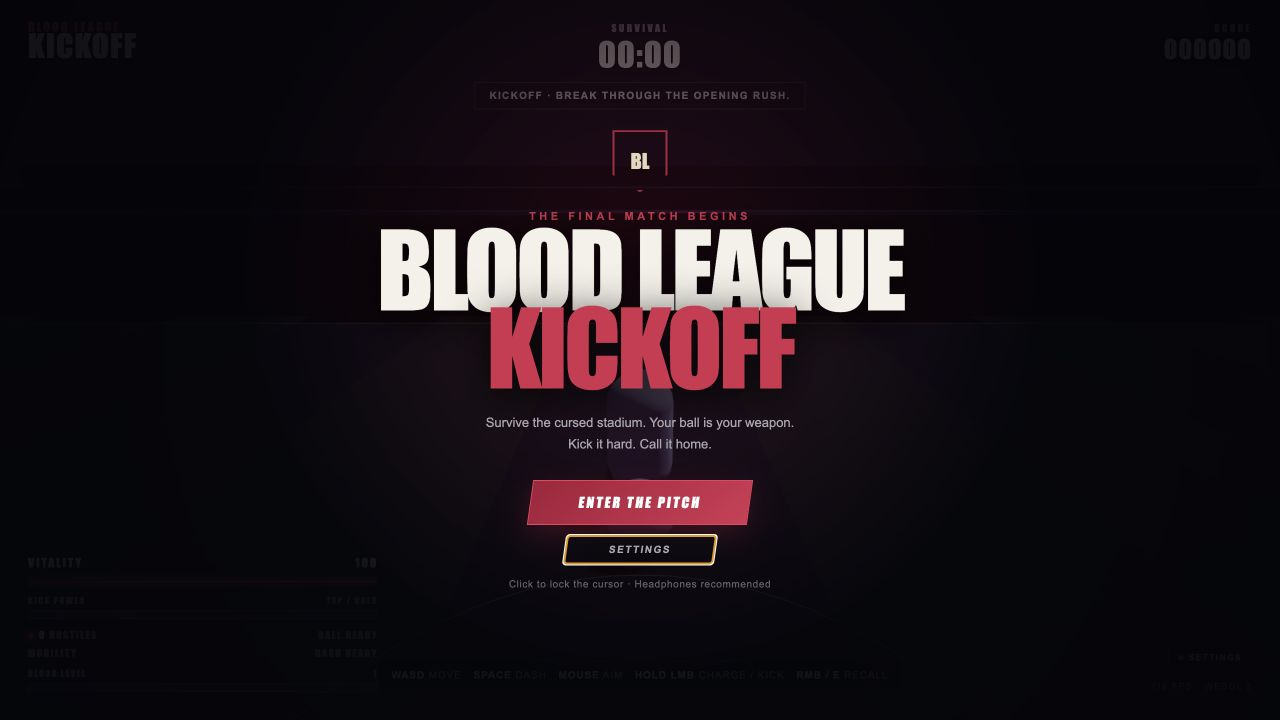
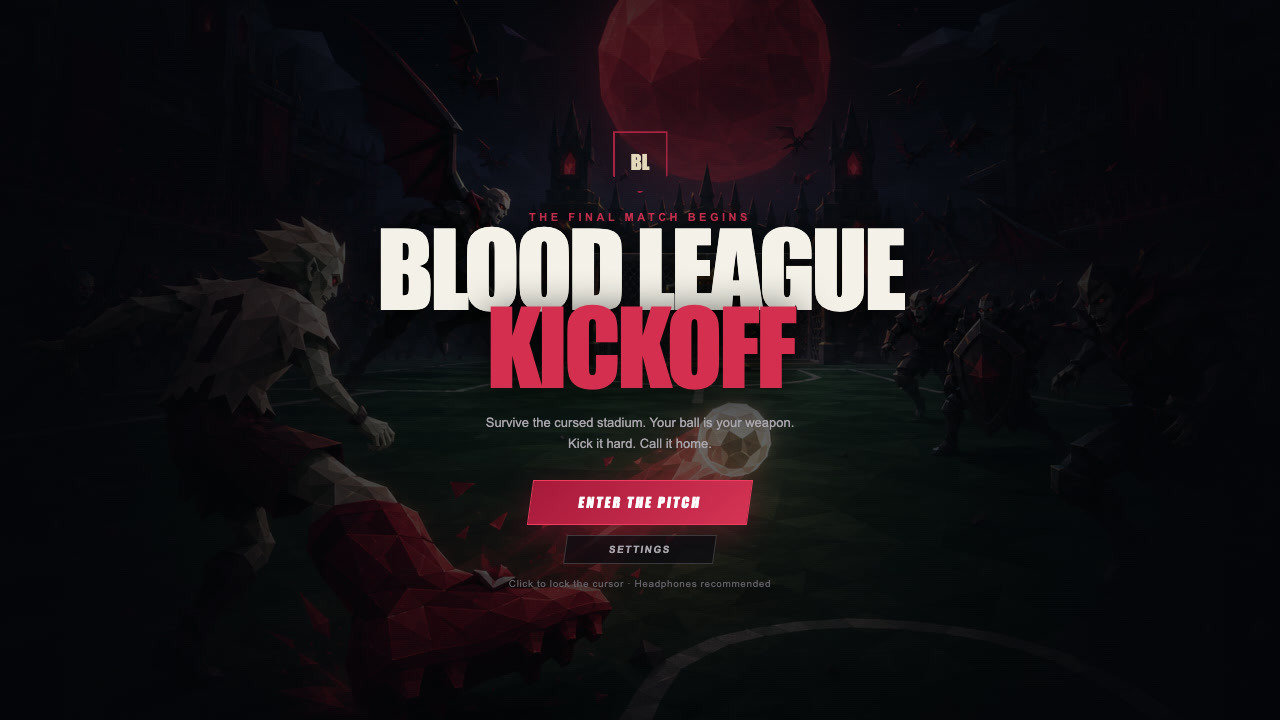
feat: integrate original key art and title presentation

diff --git a/src/styles.css b/src/styles.css
@@ -408,6 +408,22 @@ button {
   visibility: hidden;
   pointer-events: none;
 }
+.modal.splash {
+  background:
+    linear-gradient(
+      90deg,
+      rgba(4, 4, 9, 0.56),
+      rgba(4, 4, 9, 0.2) 32%,
+      rgba(4, 4, 9, 0.2) 68%,
+      rgba(4, 4, 9, 0.56)
+    ),
+    radial-gradient(circle at 50% 45%, rgba(5, 5, 10, 0.38), rgba(5, 5, 10, 0.9) 78%),
+    url('./assets/key-art/menu-background.jpg') center / cover no-repeat;
+}
+.modal.splash > * {
+  position: relative;
+  z-index: 1;
+}
 .crest {
   width: 55px;
   height: 62px;
@@ -518,6 +534,9 @@ button {
   }
   .perf {
     display: none;
+  }
+  .modal.splash {
+    background-position: 46% center;
   }
 }
 

diff --git a/docs/ASSET_INVENTORY.md b/docs/ASSET_INVENTORY.md
@@ -6,8 +6,8 @@ Inventory status as of 2026-07-14:
 
 - All current gameplay visuals are generated at runtime from authored TypeScript, Three.js primitives, materials, lights, and particles.
 - All current music and sound effects are synthesized at runtime with the Web Audio API.
-- The repository contains three authored JPEG screenshots.
-- No generated raster image, imported 3D model, texture, audio recording, bundled font, or third-party player-facing asset is currently present.
+- The repository contains three authored JPEG screenshots, one generated key-art master, and two optimized key-art derivatives.
+- No imported 3D model, recorded audio, bundled font, or third-party player-facing asset is currently present.
 
 ## Field Definitions
 
@@ -36,11 +36,11 @@ These assets do not exist as standalone image or model files. Their geometry and
 
 ## Authored Interface Assets
 
-| Category                                                                      | Source                                | Tool                                   | License/ownership                         | Changes/current state                                                                                                                        |
-| ----------------------------------------------------------------------------- | ------------------------------------- | -------------------------------------- | ----------------------------------------- | -------------------------------------------------------------------------------------------------------------------------------------------- |
-| HUD, title screen, pause, halftime, upgrades, tutorial, settings, and results | `src/ui/`, `src/styles.css`           | TypeScript, HTML DOM, CSS              | Project-created code                      | Layout, typography, gradients, borders, icons/glyphs, animation, and reduced-motion behavior are authored directly; no raster UI kit is used |
-| BL favicon                                                                    | Inline SVG data URL in `index.html`   | Authored SVG path and CSS color values | Project-created code                      | Embedded at build time; not stored as a separate image file                                                                                  |
-| Typography                                                                    | CSS system stacks in `src/styles.css` | Host operating-system fonts            | No font file redistributed by the project | Uses fallbacks including Impact/Haettenschweiler/Arial; appearance can vary by platform and must be checked on the target macOS build        |
+| Category                                                                      | Source                                | Tool                                   | License/ownership                         | Changes/current state                                                                                                                                                                |
+| ----------------------------------------------------------------------------- | ------------------------------------- | -------------------------------------- | ----------------------------------------- | ------------------------------------------------------------------------------------------------------------------------------------------------------------------------------------ |
+| HUD, title screen, pause, halftime, upgrades, tutorial, settings, and results | `src/ui/`, `src/styles.css`           | TypeScript, HTML DOM, CSS              | Project-created code                      | Layout, typography, gradients, borders, icons/glyphs, animation, and reduced-motion behavior are authored directly; the title screen composites the generated key art recorded below |
+| BL favicon                                                                    | Inline SVG data URL in `index.html`   | Authored SVG path and CSS color values | Project-created code                      | Embedded at build time; not stored as a separate image file                                                                                                                          |
+| Typography                                                                    | CSS system stacks in `src/styles.css` | Host operating-system fonts            | No font file redistributed by the project | Uses fallbacks including Impact/Haettenschweiler/Arial; appearance can vary by platform and must be checked on the target macOS build                                                |
 
 ## Procedural Audio Assets
 
@@ -57,27 +57,27 @@ The generated noise buffer is computed during runtime and is not an authored or 
 
 ## Repository Screenshots
 
-All current screenshots are direct captures of the running game and therefore depict the procedural visuals and authored interface listed above. No AI image generator or third-party image source was used for these repository files.
+All current screenshots are direct captures of the running game and therefore depict the runtime visuals and authored interface listed above. The refreshed title capture includes the generated key-art background recorded in the asset register; the gameplay and settings captures contain no generated or third-party raster imagery.
 
-| Path                                | Source                           | Tool                                  | License/ownership       | Changes/current state                                                                                                                      |
-| ----------------------------------- | -------------------------------- | ------------------------------------- | ----------------------- | ------------------------------------------------------------------------------------------------------------------------------------------ |
[3 lines of base64/hex data omitted]
+| Path                                | Source                           | Tool                                                      | License/ownership                                                        | Changes/current state                                                                                                                      |
+| ----------------------------------- | -------------------------------- | --------------------------------------------------------- | ------------------------------------------------------------------------ | ------------------------------------------------------------------------------------------------------------------------------------------ |
[3 lines of base64/hex data omitted]
 
 The capture method is recorded at the level verified by the repository history. If a release capture is cropped, color-corrected, composited, or exported through another tool, record that change and tool here before submission.
 
 ## Generated Raster and Imported Asset Register
 
-| Asset class                                           | Current files | Source/tool/license/change record                                                                                                                                                          |
-| ----------------------------------------------------- | ------------- | ------------------------------------------------------------------------------------------------------------------------------------------------------------------------------------------ |
-| AI-generated raster images                            | _None_        | Do not list a planned image as created. When one is added, record its repository path, generator/model, prompt or brief location, generation date, human edits, and redistribution status. |
-| Hand-authored raster images other than screenshots    | _None_        | Record source artwork and export transformations when added.                                                                                                                               |
-| External textures or sprites                          | _None_        | Record original author, direct source URL, exact license, attribution, and all modifications when added.                                                                                   |
-| Imported 3D models (`.glb`, `.gltf`, or source scene) | _None_        | Record modeling source, author/tool, license, cleanup, scale, collision, and export settings when added.                                                                                   |
-| Recorded or generated audio files                     | _None_        | Procedural Web Audio code is listed above; any future rendered file needs generator/recording source and editing history.                                                                  |
-| Bundled font files                                    | _None_        | Record foundry, source URL, license file, subset/conversion, and uses when added.                                                                                                          |
-| Third-party logos or character art                    | _None_        | Do not add without documented permission compatible with redistribution.                                                                                                                   |
+| Asset class                                           | Current files                                                                                                                | Source/tool/license/change record                                                                                                                                                  |
+| ----------------------------------------------------- | ---------------------------------------------------------------------------------------------------------------------------- | ---------------------------------------------------------------------------------------------------------------------------------------------------------------------------------- |
+| AI-generated raster images                            | `docs/art/source/blood-league-key-art-master.png`; `src/assets/key-art/menu-background.jpg`; `docs/marketing/itch-cover.jpg` | OpenAI built-in image generation, 2026-07-14; full prompt and derivation record in `docs/art/KEY_ART_PROMPT.md`; original plus FFmpeg JPEG runtime and centered cover derivatives. |
+| Hand-authored raster images other than screenshots    | _None_                                                                                                                       | Record source artwork and export transformations when added.                                                                                                                       |
+| External textures or sprites                          | _None_                                                                                                                       | Record original author, direct source URL, exact license, attribution, and all modifications when added.                                                                           |
+| Imported 3D models (`.glb`, `.gltf`, or source scene) | _None_                                                                                                                       | Record modeling source, author/tool, license, cleanup, scale, collision, and export settings when added.                                                                           |
+| Recorded or generated audio files                     | _None_                                                                                                                       | Procedural Web Audio code is listed above; any future rendered file needs generator/recording source and editing history.                                                          |
+| Bundled font files                                    | _None_                                                                                                                       | Record foundry, source URL, license file, subset/conversion, and uses when added.                                                                                                  |
+| Third-party logos or character art                    | _None_                                                                                                                       | Do not add without documented permission compatible with redistribution.                                                                                                           |
 
 ## Asset Freeze Checklist
 

diff --git a/docs/ASSET_CREDITS.md b/docs/ASSET_CREDITS.md
@@ -4,17 +4,19 @@ This is the authoritative asset and license ledger. The submission-facing file i
 
 ## Project-Created Assets
 
-| Asset/path                                | Creator              | Tool                                 | Date              | Notes                                                                               |
-| ----------------------------------------- | -------------------- | ------------------------------------ | ----------------- | ----------------------------------------------------------------------------------- |
-| Game design and source code               | Team (names pending) | Codex and local development tools    | 2026-07-14 onward | AI assistance must not be required at runtime                                       |
-| Procedural visuals, UI, and audio systems | Team (names pending) | TypeScript, Three.js, CSS, Web Audio | 2026-07-14 onward | Generated at runtime from project source; no external media files                   |
-| `docs/screenshots/*.jpg`                  | Team (names pending) | Local browser capture                | 2026-07-14        | Three 1280×720 captures of the running game; no third-party or AI-generated imagery |
+| Asset/path                                | Creator              | Tool                                 | Date              | Notes                                                                                                                    |
+| ----------------------------------------- | -------------------- | ------------------------------------ | ----------------- | ------------------------------------------------------------------------------------------------------------------------ |
+| Game design and source code               | Team (names pending) | Codex and local development tools    | 2026-07-14 onward | AI assistance must not be required at runtime                                                                            |
+| Procedural visuals, UI, and audio systems | Team (names pending) | TypeScript, Three.js, CSS, Web Audio | 2026-07-14 onward | Generated at runtime from project source; no external media files                                                        |
+| `docs/screenshots/*.jpg`                  | Team (names pending) | Local browser capture                | 2026-07-14        | Three 1280×720 captures of the running game; the refreshed title capture composites the generated key art recorded below |
 
 ## AI-Generated Assets
 
-| Asset/path       | Generator/model | Prompt/brief record | Date | Human modifications | Notes |
-| ---------------- | --------------- | ------------------- | ---- | ------------------- | ----- |
-| _None added yet_ |                 |                     |      |                     |       |
+| Asset/path                                        | Generator/model                  | Prompt/brief record          | Date       | Human modifications                                                   | Notes                                                                                    |
+| ------------------------------------------------- | -------------------------------- | ---------------------------- | ---------- | --------------------------------------------------------------------- | ---------------------------------------------------------------------------------------- |
+| `docs/art/source/blood-league-key-art-master.png` | OpenAI built-in image generation | `docs/art/KEY_ART_PROMPT.md` | 2026-07-14 | None; preserved source output                                         | Original project key art; generated without logos, typography, or third-party likenesses |
+| `src/assets/key-art/menu-background.jpg`          | Derived from the source above    | `docs/art/KEY_ART_PROMPT.md` | 2026-07-14 | JPEG export at 1536×1024 with FFmpeg; no crop or semantic edit        | Optimized runtime title background                                                       |
+| `docs/marketing/itch-cover.jpg`                   | Derived from the source above    | `docs/art/KEY_ART_PROMPT.md` | 2026-07-14 | Center crop to 1290×1024, resized to 630×500, JPEG export with FFmpeg | README and itch.io cover candidate                                                       |
 
 Store enough prompt/brief information to reproduce or explain each generated asset. Record edits such as paint-over, cropping, texture conversion, typography, and compositing. Never imply a generated image is a licensed third-party logo or character.
 

diff --git a/docs/art/KEY_ART_PROMPT.md b/docs/art/KEY_ART_PROMPT.md
@@ -1,0 +1,45 @@
+# Key Art Generation Record
+
+## Source
+
+- Date: 2026-07-14
+- Generator: OpenAI built-in image generation
+- Mode: built-in image generation; the exact hosted model identifier was not exposed by the tool
+- Source output: `docs/art/source/blood-league-key-art-master.png`
+- Source dimensions: 1536×1024
[1 lines of base64/hex data omitted]
+
+## Prompt
+
+> Use case: stylized-concept
+>
+> Asset type: landscape key art master for the Blood League: Kickoff game title screen, README hero, and itch.io cover crop
+>
+> Primary request: Create original cinematic key art for a low-poly gothic football survivor game under a blood moon. A pale undead striker with one unmistakably oversized crimson kicking boot has just kicked a bright faceted bone-white football through a rushing vampire horde toward an armored crowned goalkeeper at the far goal. The kick is the spark that starts the supernatural match.
+>
+> Scene/backdrop: cursed football stadium at night, readable dark green pitch and white field markings converging toward a gothic goal, crowd silhouettes and restrained crimson banners, huge blood moon behind the goal, cool moonlit fog and sparse embers
+>
+> Subject: striker in the lower-left foreground, glowing ball and clean trajectory crossing the lower-center, distinct vampire silhouettes flanking the corridor (winged runner, shield defender, bat swarm, square goalkeeper brute), Count Goalkeeper centered at the distant goal with crown and wide armored shoulders
+>
+> Style/medium: polished low-poly 3D illustration, chunky readable silhouettes, visibly faceted matte materials, graphic game key art, dramatic but not photorealistic
+>
+> Composition/framing: wide 3:2 landscape; strong depth; keep the center and upper-middle relatively uncluttered for the existing HTML title and buttons; keep all essential subjects inside a centered 4:3 crop and a centered square crop; no subject cut off
+>
+> Lighting/mood: cool `#AABFFF` moon key, deep `#080811` night, restrained `#D62D58` and `#FF315D` energy accents, `#F4F1E9` player and ball anchor, gold `#FFCF40` only on the elite goalkeeper/crown; thrilling kickoff moment, ominous but energetic
+>
+> Color palette: `#080811`, `#111119`, `#17101F`, `#821733`, `#A7193B`, `#D62D58`, `#FF315D`, `#F4F1E9`, `#E8E2CC`, `#AABFFF`, `#18261F`, `#26372E`, `#FFCF40`
+>
+> Materials/textures: broad faceted value blocks, matte low-poly geometry, subtle metal only on crown/goal armor, no micro-textures
+>
+> Constraints: no typography, no title, no logo, no letters, no watermark, no detailed gore, no photorealism, no depth-of-field blur, no motion blur, no real-world club branding; preserve a readable bright ball and kick trajectory; characters must remain distinguishable by shape rather than color alone
+>
+> Avoid: generic soccer poster look, realistic human anatomy, clutter over the center title-safe area, tiny indistinct enemies, blue daytime sky, excessive bloom, lens flare
+
+## Human Processing
+
+The generated composition was accepted without semantic edits or paint-over.
+
[2 lines of base64/hex data omitted]
+
+The source output remains the record of origin. The runtime and marketing derivatives must not be described as hand-painted or as third-party licensed art.

diff --git a/README.md b/README.md
@@ -2,6 +2,8 @@
 
 > A third-person football-combat horde-survival roguelite created for the IUT 12th ICT Fest 2026 GameJam.
 
+![Blood League: Kickoff key art](docs/marketing/itch-cover.jpg)
+
 | Project   | Value                                                                |
 | --------- | -------------------------------------------------------------------- |
 | Status    | Complete nine-minute run alpha in active development                 |
@@ -9,6 +11,8 @@
 | Platforms | Web and macOS development first; Windows desktop at final submission |
 | Stack     | Three.js, TypeScript, Vite, Rapier, Electron                         |
 | Input     | Keyboard and mouse                                                   |
+
+### Current title screen
 
 ![Blood League: Kickoff title screen](docs/screenshots/title-screen.jpg)
 

diff --git a/TODO.md b/TODO.md
@@ -146,7 +146,7 @@ Complete tasks in milestone order. `P0` is required, `P1` is target scope, and `
 ## Presentation and target content (`v0.8.0`)
 
 - [x] `P0` Lock the low-poly gothic visual palette.
-- [ ] `P0` Generate original key art, itch cover, and menu background.
+- [x] `P0` Generate original key art, itch cover, and menu background.
 - [ ] `P0` Generate readable upgrade/evolution icons.
 - [ ] `P0` Create or source licensed character and enemy models.
 - [ ] `P0` Record every external/generated asset source, author/tool, license, and changes.
